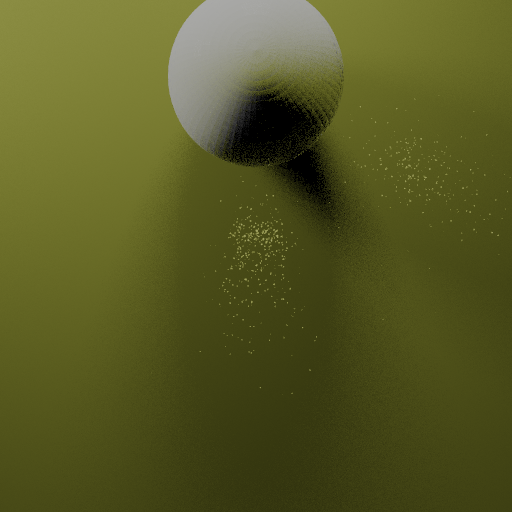
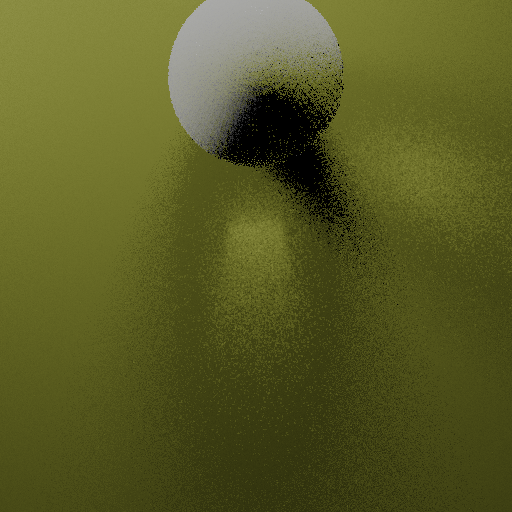
Implmented multiple lights

Changed region(s): [[0.4062, 0.0938, 0.7188, 0.6875], [0.7188, 0.2812, 0.9375, 0.4375]]

diff --git a/pathtracer.cpp b/pathtracer.cpp
@@ -13,8 +13,8 @@
 
 using namespace Eigen;
 
-bool doStylizedCaustics = false;
-bool useGreedyMethod = false;
+bool doStylizedCaustics = true;
+bool useGreedyMethod = true;
 
 extern int maxPhotonsNum;
 
@@ -39,69 +39,81 @@ PathTracer::PathTracer(Scene *scene,
     // First pass of photon mapping
     if (m_usePhotonMapping) {
         generatePhotons(*scene);
+        std::cout << "light size: " << scene->getEmissives().size() << std::endl;
         if(doStylizedCaustics) {
-            auto imageParameter = scene->getImageParameters()[0];
-            stylizedCaustics = StylizedCaustics(imageParameter->img_size[0], imageParameter->img_size[1]);
-            // Sample images
-            auto imageSamples = stylizedCaustics.sample(imageParameter->caustic_img);
-            // Set plane
-            plane = Plane(imageParameter->img_rotate, imageParameter->img_center, imageParameter->img_normal);
-            // Projection
-            auto& photons = pmap_caustic.photons;
-            // (1) calculate average origin
-            stylizedCaustics.calculateAverageOrigin(photons);
-            // (2) calculate 2d coordinates
-            stylizedCaustics.project(*scene, photons, plane);
-            std::cout << "Finished projection" << std::endl;
-            // Assign (Greedy algorithm)
-            stylizedCaustics.assign(imageSamples);
-            std::cout << "Finished assign" << std::endl;
+            auto imageParameters = scene->getImageParameters();
+            stylizedCausticsVector.resize(imageParameters.size());
+            planeVector.resize(imageParameters.size());
+            std::cout << "parameters size: " << imageParameters.size() << std::endl;
+            for(int i = 0; i < imageParameters.size(); i++) {
+                auto imageParameter = imageParameters[i];
+                stylizedCausticsVector[i] = StylizedCaustics(imageParameter);
+                auto& stylizedCaustics = stylizedCausticsVector[i];
+                // Sample images
+                auto imageSamples = stylizedCaustics.sample(imageParameter->caustic_img);
+                // Set plane
+                std::cout << "index end: " << imageParameter->lightIndexEnd << std::endl;
+                planeVector[i] = Plane(imageParameter->img_rotate, imageParameter->img_center, imageParameter->img_normal);
+                auto& plane = planeVector[i];
+                std::cout << "created plane" << std::endl;
+                // Projection
+                auto& photons = pmap_caustic.photons;
+                // (1) calculate average origin
+                stylizedCaustics.calculateAverageOrigin(photons);
+                std::cout << "calculated origin" << std::endl;
+                // (2) calculate 2d coordinates
+                stylizedCaustics.project(*scene, photons, plane);
+                std::cout << "Finished projection" << std::endl;
+                // Assign (Greedy algorithm)
+                stylizedCaustics.assign(imageSamples);
+                std::cout << "Finished assign" << std::endl;
 
-            //For Yingtong
-            //You have set A (n points), and you sample 300 points from A
-            //Let the positions of the 300 points be std::vector<Eigen::Vector2f> A_sample;
+                //For Yingtong
+                //You have set A (n points), and you sample 300 points from A
+                //Let the positions of the 300 points be std::vector<Eigen::Vector2f> A_sample;
 
-            //You run the greedy algorithm and find the new 2D position of the 300 points,
-            //Let the new positions of the 300 points be std::vector<Eigen::Vector2f> B_sample;
+                //You run the greedy algorithm and find the new 2D position of the 300 points,
+                //Let the new positions of the 300 points be std::vector<Eigen::Vector2f> B_sample;
 
-            std::vector<Eigen::Vector2f> A_sample = stylizedCaustics.getSubsetSourcesPos();
-            std::vector<Eigen::Vector2f> B_sample = stylizedCaustics.getSubsetTargetsPos();
+                std::vector<Eigen::Vector2f> A_sample = stylizedCaustics.getSubsetSourcesPos();
+                std::vector<Eigen::Vector2f> B_sample = stylizedCaustics.getSubsetTargetsPos();
 
-            std::vector<Eigen::Vector3d> A_sample_tps;
-            std::vector<Eigen::Vector3d> B_sample_tps;
+                std::vector<Eigen::Vector3d> A_sample_tps;
+                std::vector<Eigen::Vector3d> B_sample_tps;
 
-            for(int i=0; i<A_sample.size(); i++){
-                A_sample_tps.push_back(Eigen::Vector3d(A_sample[i][0], A_sample[i][1],0));
-                B_sample_tps.push_back(Eigen::Vector3d(B_sample[i][0], B_sample[i][1],0));
+                for(int i=0; i<A_sample.size(); i++){
+                    A_sample_tps.push_back(Eigen::Vector3d(A_sample[i][0], A_sample[i][1],0));
+                    B_sample_tps.push_back(Eigen::Vector3d(B_sample[i][0], B_sample[i][1],0));
+                }
+                //Do TPS here
+                //step 1: init tps
+                ThinPlateSpline m_tps(A_sample_tps, B_sample_tps);
+
+                //step 2: use tps to find the position of rest n-300 points
+                //Let std::vector<Eigen::Vector2f> A_rest be the position of these n-300 points
+                //Let std::vector<Eigen::Vector2f> B_rest be the target position of these n-300 points we want to solve
+
+                std::vector<Eigen::Vector2f> A = stylizedCaustics.getSources();
+                std::vector<Eigen::Vector2f> B(A.size());
+                std::cout <<"A.size() " << A.size() << std::endl;
+                for(int i = 0; i< A.size(); i++){
+                    Eigen::Vector3d tempt(A[i][0], A[i][1], 0);
+                    Eigen::Vector3d result = m_tps.interpolate(tempt);
+                    B[i] = Eigen::Vector2f(result[0], result[1]);
+                }
+                stylizedCaustics.setTpsResults(B);
+                std::cout << "Finished interpolation " << std::endl;
+
+                //For Yutang
+                // Note from Yingtong: I didn't declare B_rest above, stylizedCaustics.finalResults contains all n points. I can modify the code if it's not convenient.
+                //Now you have std::vector<Eigen::Vector2f> B_sample, containing 300 points
+                //and std::vector<Eigen::Vector2f> B_rest containing n-300 points
+                //Do refinement here
+                // Note from Yingtong: Guess refinement is better to be a member function of class StylizedCaustics, since all data is stored in StylizedCaustics.
+                // or make the stylizedCaustics a parameter of the function
+                // To show the final result, go to move() function in stylizedcaustics.cpp, uncomment the final results code, and comment the results after tps
+                stylizedCaustics.refine(stylizedCaustics.tpsResults);
             }
-            //Do TPS here
-            //step 1: init tps
-            ThinPlateSpline m_tps(A_sample_tps, B_sample_tps);
-
-            //step 2: use tps to find the position of rest n-300 points
-            //Let std::vector<Eigen::Vector2f> A_rest be the position of these n-300 points
-            //Let std::vector<Eigen::Vector2f> B_rest be the target position of these n-300 points we want to solve
-
-            std::vector<Eigen::Vector2f> A = stylizedCaustics.getSources();
-            std::vector<Eigen::Vector2f> B(A.size());
-            std::cout <<"A.size() " << A.size() << std::endl;
-            for(int i = 0; i< A.size(); i++){
-                Eigen::Vector3d tempt(A[i][0], A[i][1], 0);
-                Eigen::Vector3d result = m_tps.interpolate(tempt);
-                B[i] = Eigen::Vector2f(result[0], result[1]);
-            }
-            stylizedCaustics.setTpsResults(B);
-            std::cout << "Finished interpolation " << std::endl;
-
-            //For Yutang
-            // Note from Yingtong: I didn't declare B_rest above, stylizedCaustics.finalResults contains all n points. I can modify the code if it's not convenient.
-            //Now you have std::vector<Eigen::Vector2f> B_sample, containing 300 points
-            //and std::vector<Eigen::Vector2f> B_rest containing n-300 points
-            //Do refinement here
-            // Note from Yingtong: Guess refinement is better to be a member function of class StylizedCaustics, since all data is stored in StylizedCaustics.
-            // or make the stylizedCaustics a parameter of the function
-            // To show the final result, go to move() function in stylizedcaustics.cpp, uncomment the final results code, and comment the results after tps
-//            stylizedCaustics.refine(stylizedCaustics.tpsResults);
         }
     }
 }
@@ -109,13 +121,16 @@ PathTracer::PathTracer(Scene *scene,
 void PathTracer::traceScene(QRgb *imageData, const Scene& scene,float max_dist, int max_num, int min_num, float t)
 {
     if(doStylizedCaustics) {
-//        const auto& originalPhotons = stylizedCaustics.getPhotons();
-//        auto& photons = pmap_caustic.photons;
-        auto currentPos = stylizedCaustics.move(t);
+        for(int i = 0; i < stylizedCausticsVector.size(); i++) {
+            auto& plane = planeVector[i];
+            auto& stylizedCaustics = stylizedCausticsVector[i];
+            // Move
+            auto currentPos = stylizedCaustics.move(t);
+            // Back projection
+            stylizedCaustics.backProject(scene, pmap_caustic, plane, currentPos);
+        }
         std::cout << "finished move" << std::endl;
-        // Back projection
-        stylizedCaustics.backProject(scene, pmap_caustic, plane, currentPos);
-        std::cout << "Finish stylized caustics" << std::endl;
+        pmap_caustic.update();
         setIntegrator();
     }
 

diff --git a/stylized/stylizedcaustics.cpp b/stylized/stylizedcaustics.cpp
@@ -21,6 +21,12 @@ StylizedCaustics::StylizedCaustics(float width, float height)
     g = std::mt19937(rd());
 }
 
+StylizedCaustics::StylizedCaustics(std::shared_ptr<ImageParameter> imageParameter)
+    :imageParameter(imageParameter), width(imageParameter->img_size[0]), height(imageParameter->img_size[1])
+{
+    g = std::mt19937(rd());
+}
+
 std::vector<Eigen::Vector2f> StylizedCaustics::sample(std::string path) {
     ImageSampler imageSampler(width, height);
     return imageSampler.sample(path);
@@ -29,14 +35,12 @@ std::vector<Eigen::Vector2f> StylizedCaustics::sample(std::string path) {
 void StylizedCaustics::project(const Scene& scene, const std::vector<Photon> photons, Plane& plane) {
     sources.clear();
     for(int i = 0; i < photons.size(); i++) {
-        auto caustics2D = plane.projectPoint(averageOrigin, photons[i].origin);
-        if(caustics2D.norm() > 100) continue;
-        sources.push_back(caustics2D);
-        photonsMap.push_back(i);
-//        auto backPro = plane.backProjectPoint(scene, averageOrigin, caustics2D);
-//        if(backPro.norm() > 100) backPro = photons[i].origin;
-//        std::cout << "Original pos: " << photons[i].origin[0] << " " << photons[i].origin[1] << " " << photons[i].origin[2] << std::endl;
-//        std::cout << "Back pos: " << backPro[0] << " " << backPro[1] << " " << backPro[2] << std::endl;
+        if(imageParameter->lightIndexEnd < 0 || imageParameter->lightIndexBegin <= photons[i].lightIdx && imageParameter->lightIndexEnd >= photons[i].lightIdx){
+            auto caustics2D = plane.projectPoint(averageOrigin, photons[i].origin);
+            if(caustics2D.norm() > 100) continue;
+            sources.push_back(caustics2D);
+            photonsMap.push_back(i);
+        }
     }
     std::cout << "source number: " << sources.size() << std::endl;
 }
@@ -51,14 +55,6 @@ void StylizedCaustics::assign(std::vector<Vector2f>& images) {
         std::cerr << "Error: n bigger than m!" << std::endl;
         return;
     }
-
-//    Eigen::Vector2f maxPoint(-100, -100), minPoint(100, 100);
-//    for(auto& point: images) {
-//        for(int i = 0; i < 2; i++) {
-//            maxPoint[i] = std::max(maxPoint[i], point[i]);
-//            minPoint[i] = std::min(minPoint[i], point[i]);
-//        }
-//    }
 
     std::mt19937 rng(rd());    // Random-number engine used (Mersenne-Twister in this case)
 
@@ -251,14 +247,19 @@ void StylizedCaustics::backProject(const Scene& scene, PhotonMap& pmap_caustic, 
         photon.dir = (hitPoint - photon.lastHit).normalized();
 //        cout << i << flush;
     }
-    pmap_caustic.update();
     cout << "finished back projection" << endl;
 }
 
 void StylizedCaustics::calculateAverageOrigin(const std::vector<Photon>& photons) {
     averageOrigin = {0, 0, 0};
-    for(const auto& photon: photons) averageOrigin += photon.lastHit;
-    averageOrigin /= photons.size();
+    int size = 0;
+    for(const auto& photon: photons) {
+        if(imageParameter->lightIndexEnd < 0 || imageParameter->lightIndexBegin <= photon.lightIdx && imageParameter->lightIndexEnd >= photon.lightIdx){
+            size++;
+            averageOrigin += photon.lastHit;
+        }
+    }
+    if(size > 0) averageOrigin /= size;
 }
 
 std::vector<Eigen::Vector2f> StylizedCaustics::getSubsetSourcesPos() {

diff --git a/util/CS123XmlSceneParser.cpp b/util/CS123XmlSceneParser.cpp
@@ -862,6 +862,13 @@ bool CS123XmlSceneParser::parseParameters(const QDomElement &params){
                 return false;
             }
         }
+        else if(e.tagName() == "rotate") {
+            if(!e.hasAttribute("angle")) {
+                PARSE_ERROR(e);
+                return false;
+            }
+            imageParameter->img_rotate = e.attribute("angle").toFloat() / 180 * M_PI;
+        }
         else if (e.tagName() == "center") {
             if (!parseTriple(e, imageParameter->img_center(0), imageParameter->img_center(1), imageParameter->img_center(2), "x", "y", "z")) {
                 PARSE_ERROR(e);
@@ -870,6 +877,12 @@ bool CS123XmlSceneParser::parseParameters(const QDomElement &params){
         }
         else if (e.tagName() == "normal") {
             if (!parseTriple(e, imageParameter->img_normal(0), imageParameter->img_normal(1), imageParameter->img_normal(2), "x", "y", "z")) {
+                PARSE_ERROR(e);
+                return false;
+            }
+        }
+        else if(e.tagName() == "light") {
+            if (!parseDouble(e, imageParameter->lightIndexBegin, imageParameter->lightIndexEnd, "indexBegin", "indexEnd")) {
                 PARSE_ERROR(e);
                 return false;
             }

diff --git a/stylized/stylizedcaustics.h b/stylized/stylizedcaustics.h
@@ -15,6 +15,7 @@ class StylizedCaustics
 public:
     StylizedCaustics();
     StylizedCaustics(float width, float height);
+    StylizedCaustics(std::shared_ptr<ImageParameter> imageParameter);
 
     std::vector<Eigen::Vector2f> sample(std::string path);
     void project(const Scene& scene, const std::vector<Photon> photons, Plane& plane);
@@ -47,6 +48,8 @@ private:
     void greedy();
 
     float width, height;
+
+    std::shared_ptr<ImageParameter> imageParameter;
 
     int m;  // Total number of points
     int n;  // Number of points in subsets

diff --git a/pathtracer.h b/pathtracer.h
@@ -36,8 +36,9 @@ private:
     RandomGenerator rng;
     Integrator m_integrator;
 
-    StylizedCaustics stylizedCaustics;
-    Plane plane;
+//    StylizedCaustics stylizedCaustics;
+    std::vector<StylizedCaustics> stylizedCausticsVector;
+    std::vector<Plane> planeVector;
 
     void generatePhotons(const Scene& scene);
     void setIntegrator();

diff --git a/util/CS123XmlSceneParser.h b/util/CS123XmlSceneParser.h
@@ -12,9 +12,11 @@
 struct ImageParameter {
     std::string caustic_img;
     Eigen::Vector2f img_size;
-    float img_rotate;
+    float img_rotate = 0;
     Eigen::Vector3f img_center;
     Eigen::Vector3f img_normal;
+
+    int lightIndexBegin = -1, lightIndexEnd = -1;
 };
 
 /**

diff --git a/photon.h b/photon.h
@@ -37,7 +37,7 @@ struct Photon {
         this->power = a.power;
         this->divide_axis = a.divide_axis;
         this->dir = a.dir;
-        this->lightIdx = lightIdx;
+        this->lightIdx = a.lightIdx;
     }
 };
 
